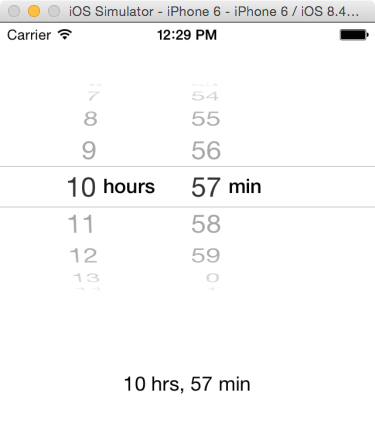
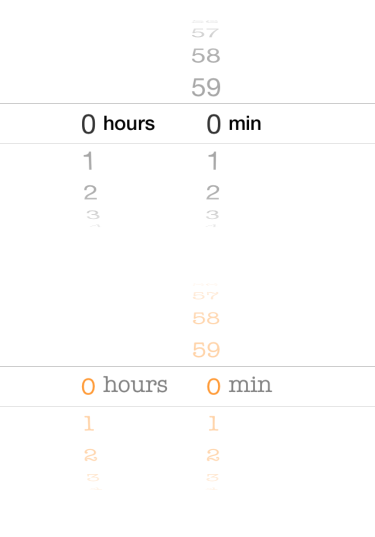
Support customization

diff --git a/Pod/Classes/TimeIntervalPicker.swift b/Pod/Classes/TimeIntervalPicker.swift
@@ -11,21 +11,22 @@ internal class DigitsLabel: UIView {
     private let textAlignment = NSTextAlignment.Right
     private var label: UILabel!
     
-    internal init(width: CGFloat, height: CGFloat, labelWidth: CGFloat, font: UIFont) {
+    internal init(width: CGFloat, height: CGFloat, labelWidth: CGFloat, font: UIFont, textColor: UIColor) {
         super.init(frame: CGRect(x: 0, y: 0, width: width, height: height))
-        createLabel(width: labelWidth, height: height, font: font)
+        createLabel(width: labelWidth, height: height, font: font, textColor: textColor)
     }
     
     internal required init(coder aDecoder: NSCoder) {
         fatalError("init(coder:) has not been implemented")
     }
     
-    private func createLabel(#width: CGFloat, height: CGFloat, font: UIFont) {
+    private func createLabel(#width: CGFloat, height: CGFloat, font: UIFont, textColor: UIColor) {
         label = UILabel(frame: CGRect(x: 0, y: 0, width: width, height: height))
         addSubview(label)
         label.textAlignment = textAlignment
         label.adjustsFontSizeToFitWidth = false
         label.font = font
+        label.textColor = textColor
     }
     
 }
@@ -75,17 +76,36 @@ public class TimeIntervalPicker: UIControl, UIPickerViewDataSource, UIPickerView
     // The defaults values aim to resemble the look of UIDataPicker
     
     /// Width of a picker component
-    public let componentWidth: CGFloat = 102
+    public var componentWidth: CGFloat = 102
     
     /// Size of a label that shows hours/minutes digits within a component
-    public let digitsLabelSize = CGSize(width: 26, height: 30)
+    public var digitsLabelSize = CGSize(width: 26, height: 30)
     
-    /// Font of a labels that show hours/minutes digits within a component
-    public let digitsLabelFont = UIFont.systemFontOfSize(23.5)
-
-    /// Font for "hours" and "min" labels
-    public let minHoursFloatingLabelFont = UIFont(name: "HelveticaNeue-Medium", size: 17) ??
-        UIFont.systemFontOfSize(17)
+    /// Font of labels that show hours/minutes digits within a component
+    public var digitsLabelFont = UIFont.systemFontOfSize(23.5) {
+        didSet { setNeedsDisplay() }
+    }
+    
+    /// Text color of labels that show hours/minutes digits within a component
+    public var digitsLabelTextColor = UIColor.blackColor() {
+        didSet { setNeedsDisplay() }
+    }
+    
+    /// Font of "hours" and "min" labels
+    public var minutesHoursLabelFont = UIFont.systemFontOfSize(17, weight: UIFontWeightMedium) {
+        didSet {
+            minutesFloatingLabel.font = minutesHoursLabelFont
+            hoursFloatingLabel.font = minutesHoursLabelFont
+        }
+    }
+    
+    /// Text color of "hours" and "min" labels
+    public var minutesHoursLabelTextColor = UIColor.blackColor() {
+        didSet {
+            minutesFloatingLabel.textColor = minutesHoursLabelTextColor
+            hoursFloatingLabel.textColor = minutesHoursLabelTextColor
+        }
+    }
     
     // MARK: Private details
     
@@ -180,7 +200,7 @@ public class TimeIntervalPicker: UIControl, UIPickerViewDataSource, UIPickerView
     private func createFloatingLabels() {
         func createLabel(text: String) -> UILabel {
             var label = UILabel()
-            label.font = self.minHoursFloatingLabelFont
+            label.font = self.minutesHoursLabelFont
             label.text = text
             label.setTranslatesAutoresizingMaskIntoConstraints(false)
             label.userInteractionEnabled = false
@@ -246,9 +266,7 @@ public class TimeIntervalPicker: UIControl, UIPickerViewDataSource, UIPickerView
     }
     
     public func pickerView(pickerView: UIPickerView, viewForRow row: Int, forComponent component: Int, reusingView view: UIView!) -> UIView {
-        var x = DigitsLabel(width: componentWidth, height: digitsLabelSize.height, labelWidth: digitsLabelSize.width, font: digitsLabelFont)
-        
-        var label: DigitsLabel = view is DigitsLabel ? view as! DigitsLabel : DigitsLabel(width: componentWidth, height: digitsLabelSize.height, labelWidth: digitsLabelSize.width, font: digitsLabelFont)
+        var label: DigitsLabel = view is DigitsLabel ? view as! DigitsLabel : DigitsLabel(width: componentWidth, height: digitsLabelSize.height, labelWidth: digitsLabelSize.width, font: digitsLabelFont, textColor: digitsLabelTextColor)
         label.text = self.pickerView(pickerView, titleForRow: row, forComponent: component)
         return label
     }

diff --git a/Example/TimeIntervalPicker/ViewController.swift b/Example/TimeIntervalPicker/ViewController.swift
@@ -2,19 +2,35 @@ import UIKit
 import TimeIntervalPicker
 
 internal class ViewController: UIViewController {
-
-    @IBOutlet internal weak var picker: TimeIntervalPicker!
-    @IBOutlet internal weak var valueLabel: UILabel!
+    
+    @IBOutlet internal weak var defaultPicker: TimeIntervalPicker!
+    @IBOutlet internal weak var defaultPickerValueLabel: UILabel!
+    @IBOutlet internal weak var customPicker: TimeIntervalPicker!
+    @IBOutlet internal weak var customPickerValueLabel: UILabel!
+    
     private let formatter = NSDateComponentsFormatter()
     
     internal override func viewDidLoad() {
         formatter.unitsStyle = NSDateComponentsFormatterUnitsStyle.Short
-        picker.addTarget(self, action: Selector("pickerValueChanged"), forControlEvents: UIControlEvents.ValueChanged)
-        pickerValueChanged()
+        
+        defaultPicker.addTarget(self, action: Selector("defaultPickerValueChanged"), forControlEvents: UIControlEvents.ValueChanged)
+        defaultPickerValueChanged()
+        
+        customPicker.addTarget(self, action: Selector("customPickerValueChanged"), forControlEvents: UIControlEvents.ValueChanged)
+        customPickerValueChanged()
+        
+        customPicker.minutesHoursLabelFont = UIFont(name: "AmericanTypewriter", size: 20)!
+        customPicker.digitsLabelFont = UIFont(name: "AmericanTypewriter", size: 20)!
+        customPicker.digitsLabelTextColor = UIColor.orangeColor()
+        customPicker.minutesHoursLabelTextColor = UIColor.grayColor()
     }
     
-    internal func pickerValueChanged() {
-        valueLabel.text = formatter.stringFromTimeInterval(picker.countDownDuration)
+    internal func defaultPickerValueChanged() {
+        defaultPickerValueLabel.text = formatter.stringFromTimeInterval(defaultPicker.countDownDuration)
+    }
+    
+    internal func customPickerValueChanged() {
+        customPickerValueLabel.text = formatter.stringFromTimeInterval(customPicker.countDownDuration)
     }
 }
 
